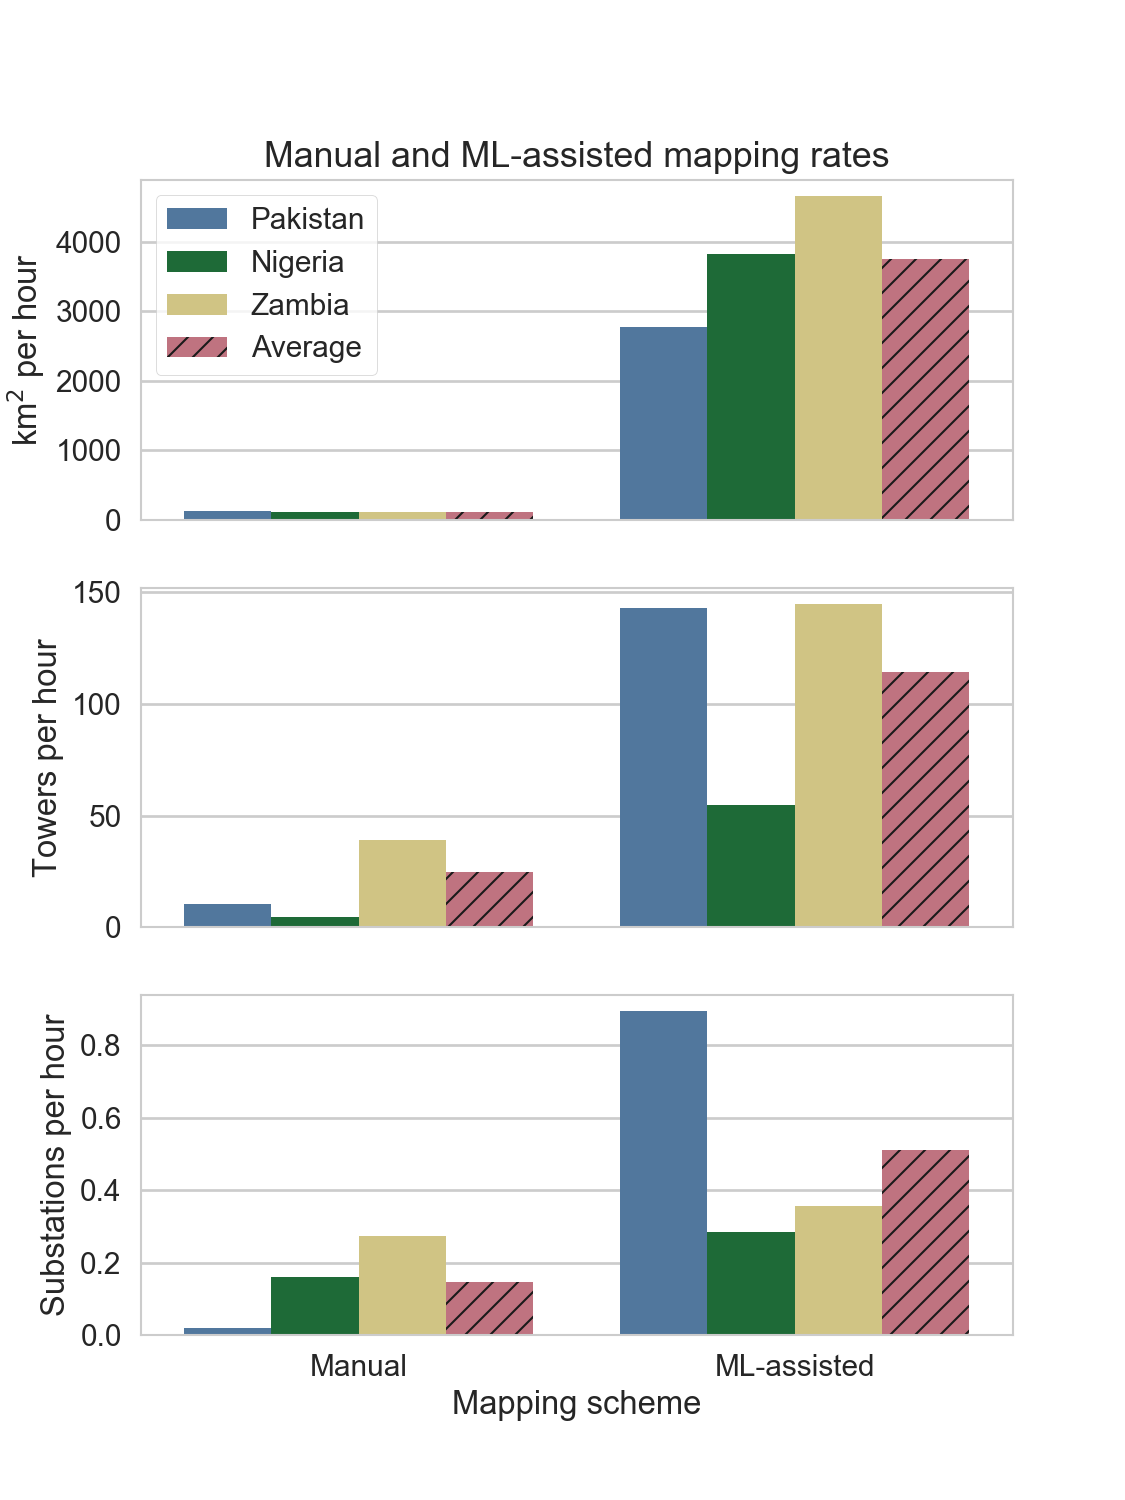
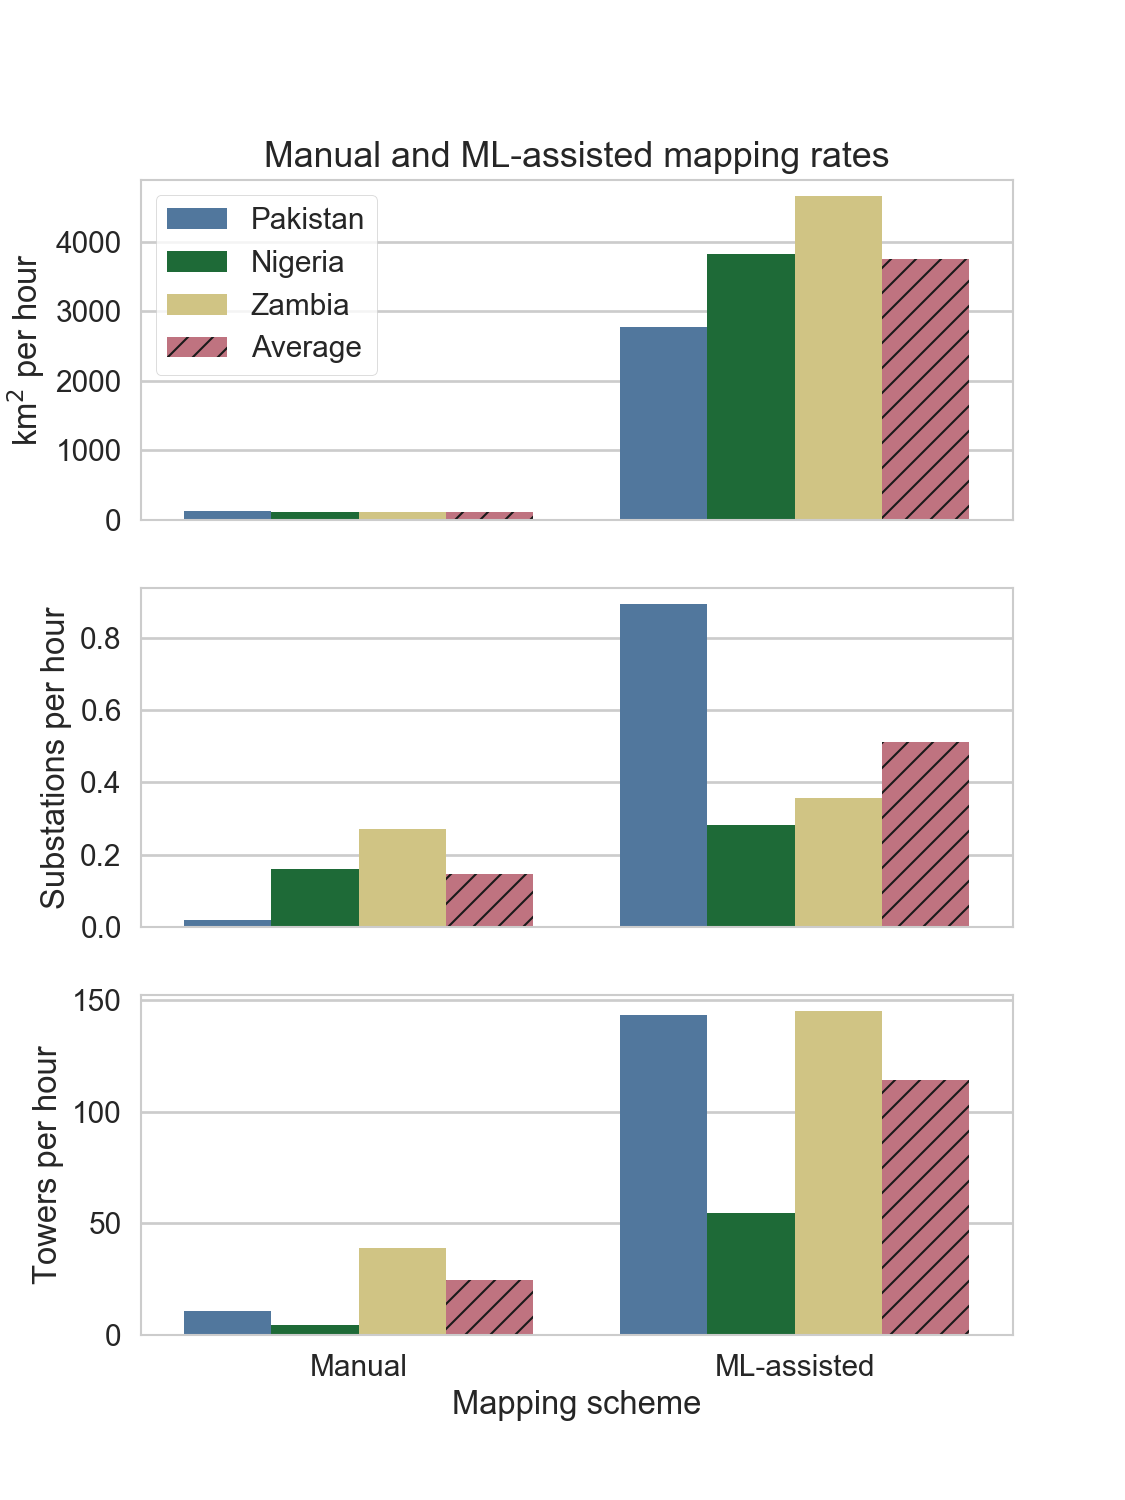
Add HV lines to results

diff --git a/app/posts/s3-results/3-3-before-after-ML/3-3-0-index.md b/app/posts/s3-results/3-3-before-after-ML/3-3-0-index.md
@@ -4,18 +4,18 @@ date: 2018-02-16
 layout: post.html
 ---
 
-This project substatially expanded the amount of mapped HV infrastructure (Figure 13) including a more than four-fold increase in both Pakistan and Zambia. Edits include both additions and major corrections though the majority of edits were additions.
+This project substatially expanded the amount of mapped HV infrastructure (Figure 13). Edits include both additions and major corrections though the majority of edits were additions.
 
 We found that our Data Team was approximately 33.4x faster per km<sup>2</sup> with the ML-derived overlay for Pakistan, Nigeria, and Zambia (Figure 14). The total time spent mapping and validating each country using these ML predictions is in Table 1.
 
 <figure class="align-center">
   <img src="/assets/graphics/content/results_plots/mapped_features.png" alt="Total mapping edits." />
-  <figcaption><b>Figure 13. HV infrastructure features in OSM.</b> Left: Total number of HV towers at the conclusion of this project split up into existing (dark blue) and those edited during this project (either added or corrected; light blue). Right: Total number of substations at the conclusion of this project split up into existing (dark blue) and those edited during this project (light blue). In both, the large majority of edits were additions.</figcaption>
+  <figcaption><b>Figure 13. HV infrastructure features in OSM.</b> Left: Total length of HV line at the conclusion of this project. Middle: Total number of HV towers at the conclusion of this project. Right: Total number of substations at the conclusion of this project.  The bars in all plot are split into the amount of previously existing HV infrastructure (dark blue) and infrastructure added or edited during this project (light blue). In all cases, the large majority of edits were additions.</figcaption>
 </figure>
 
 <figure class="align-center">
   <img src="/assets/graphics/content/results_plots/mapping_rate.png" alt="Mapping rate for km^2, towers, and substations per hour." />
-  <figcaption><b>Figure 14. Mapping rate with and without ML-assist.</b> On average, km<sup>2</sup> per hour increased by 33.4x, towers per hour by 9.7x, and substations per hour by 15.9x. Note that these figures exclude hours spent validating (i.e., double-checking) added edits. This ensured a fair comparison as no double-checking was carried out during the pre-ML mapping work to generate the training data.</figcaption>
+  <figcaption><b>Figure 14. Mapping rate with and without ML-assist.</b> On average, km<sup>2</sup> per hour increased by 33.4x, substations per hour by 15.9x, and towers per hour by 9.7. Note that these figures exclude hours spent validating (i.e., double-checking) added edits. This ensured a fair comparison as no double-checking was carried out during the pre-ML mapping work to generate the training data.</figcaption>
 </figure>
 
 Table 1. **Total person-hours spent mapping at country-wide scale.**
